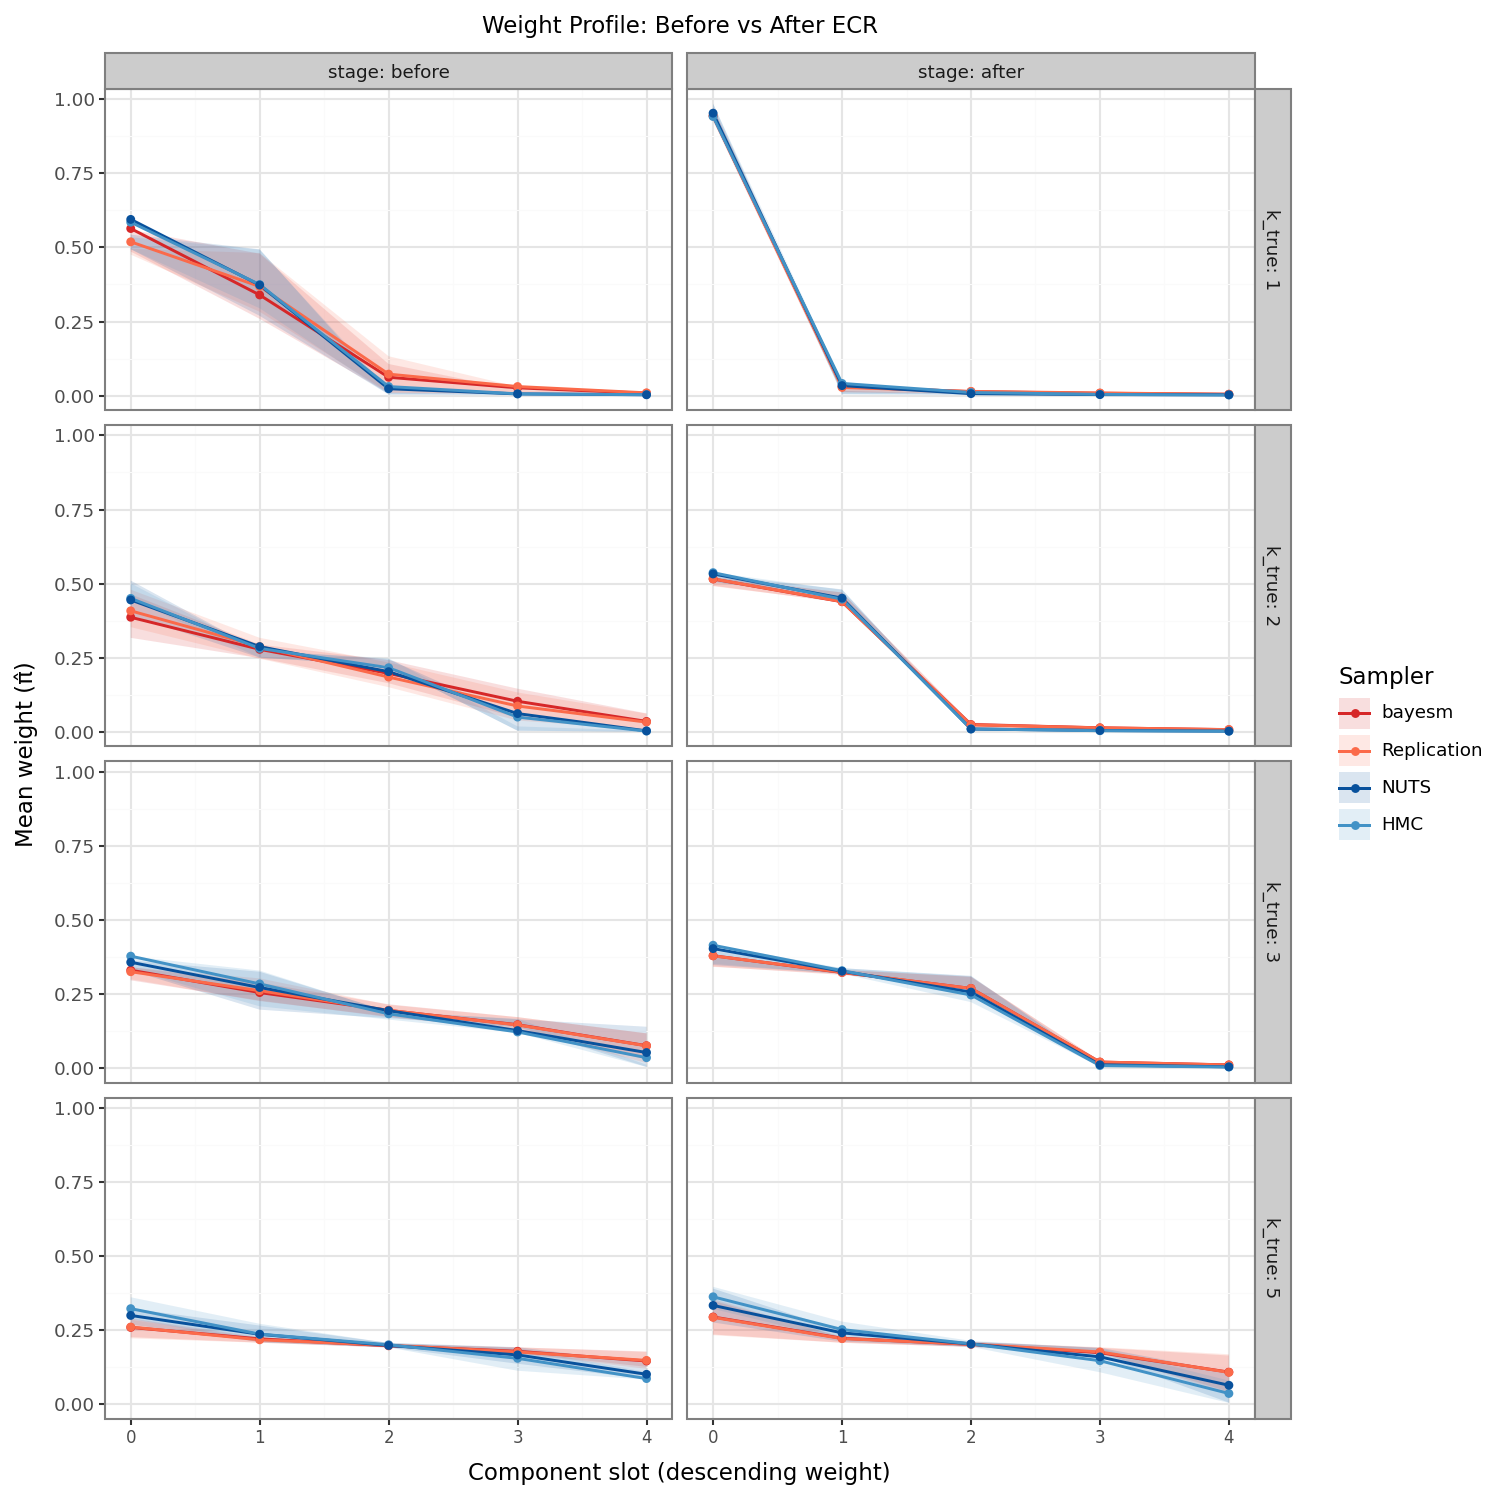
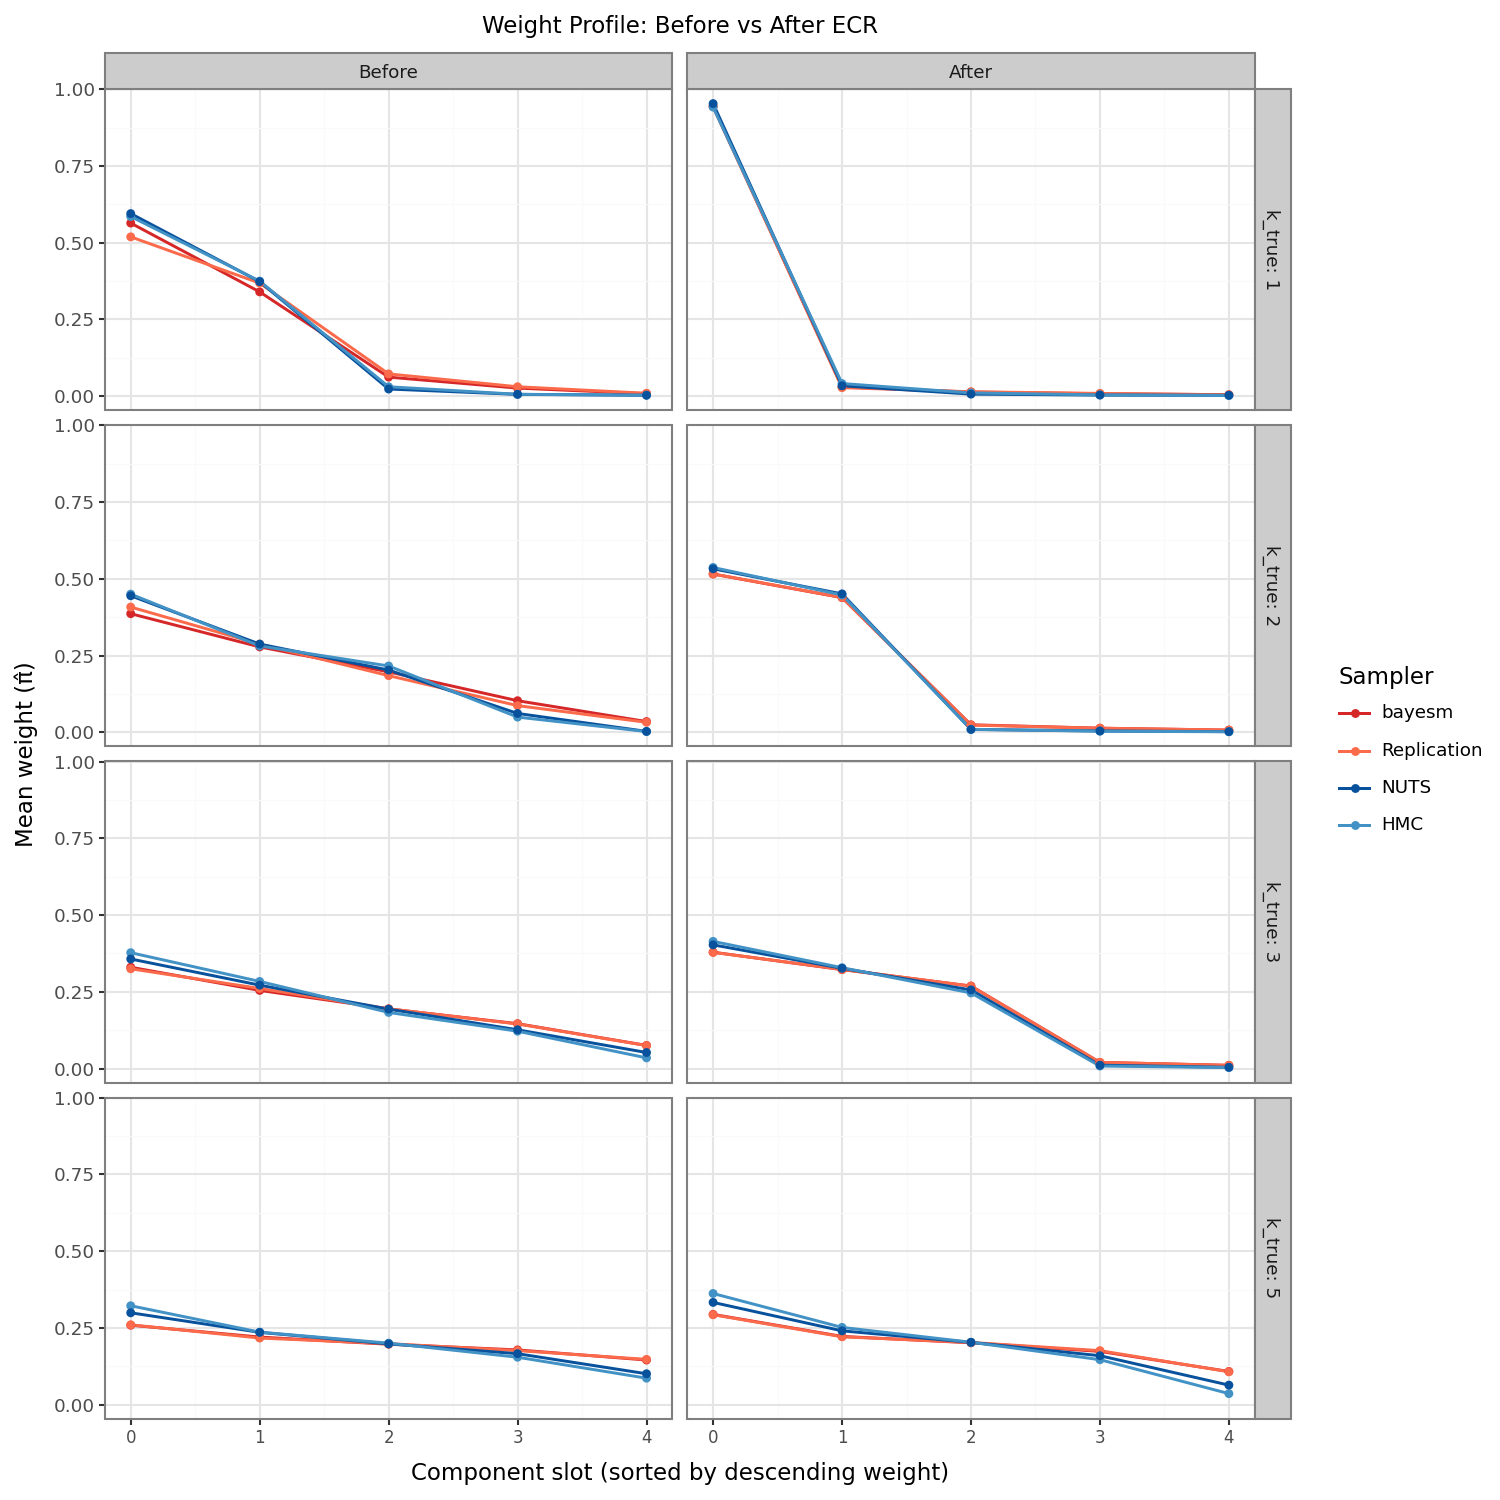
adapt weight profile plot style

diff --git a/hpc_analysis/mixture_models/component_count.py b/hpc_analysis/mixture_models/component_count.py
@@ -60,6 +60,7 @@ from plotnine import (
     geom_ribbon,
     geom_vline,
     ggplot,
+    labeller,
     labs,
     position_dodge,
     scale_color_manual,
@@ -415,7 +416,8 @@ def plot_weight_profile_by_ktrue(n_chains: int = 2, df: Optional[pd.DataFrame] =
 
 def plot_weight_profile_before_after(n_chains: int = 2,
                                      df: Optional[pd.DataFrame] = None) -> ggplot:
-    """Ranked mean weight per slot BEFORE vs AFTER ECR (facet grid k_true x stage).
+    """Ranked MEAN weight per slot BEFORE vs AFTER ECR (facet grid k_true x stage;
+    mean lines only, no IQR band).
 
     Demonstrates why ECR is required for the count: before relabeling the per-slot means are
     smeared toward uniform (label switching), so every slot looks active; after relabeling the
@@ -426,25 +428,24 @@ def plot_weight_profile_before_after(n_chains: int = 2,
         raise ValueError(f"No pvec_means rows for n_chains={n_chains}.")
     sub = sub.rename(columns={"rank": "slot", "pvec_mean": "value"})
     prof = _weight_profile_frame(sub, group_extra=["stage"])
-    prof["stage"] = pd.Categorical(prof["stage"], categories=["before", "after"], ordered=True)
+    prof["stage"] = prof["stage"].map({"before": "Before", "after": "After"})
+    prof["stage"] = pd.Categorical(prof["stage"], categories=["Before", "After"], ordered=True)
 
     sampler_order = [s for s in SAMPLER_ORDER if s in set(prof["sampler"])]
     prof["sampler"] = pd.Categorical(prof["sampler"], categories=sampler_order, ordered=True)
     color_vals = [SAMPLER_COLORS[s] for s in sampler_order]
 
     p = (
-        ggplot(prof, aes(x="slot", y="mean", color="sampler", fill="sampler"))
-        + geom_ribbon(aes(ymin="lo", ymax="hi"), alpha=0.15, color="none")
+        ggplot(prof, aes(x="slot", y="mean", color="sampler"))
         + geom_line(size=0.8)
         + geom_point(size=1.4)
-        + facet_grid(rows="k_true", cols="stage", labeller="label_both")
+        + facet_grid(rows="k_true", cols="stage",
+                     labeller=labeller(rows="label_both", cols="label_value"))
         + scale_x_continuous(breaks=list(range(K_MODEL)))
         + scale_color_manual(values=color_vals,
                              labels=[SAMPLER_LABELS.get(s, s) for s in sampler_order])
-        + scale_fill_manual(values=color_vals,
-                            labels=[SAMPLER_LABELS.get(s, s) for s in sampler_order])
-        + labs(x="Component slot (descending weight)", y="Mean weight (π̂)",
-               color="Sampler", fill="Sampler",
+        + labs(x="Component slot (sorted by descending weight)", y="Mean weight (π̂)",
+               color="Sampler",
                title="Weight Profile: Before vs After ECR")
         + theme_bw()
         + theme(figure_size=(10, 10), axis_text_x=element_text(size=8),